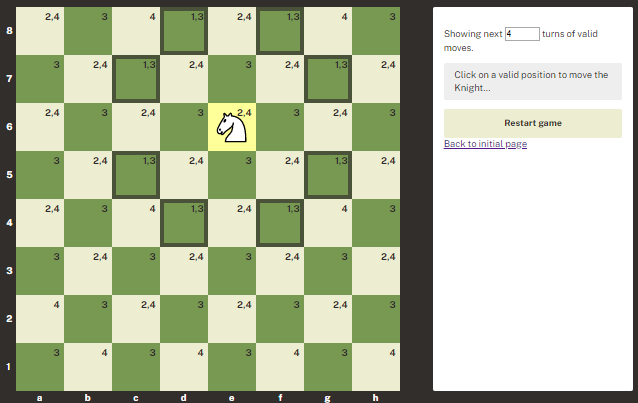
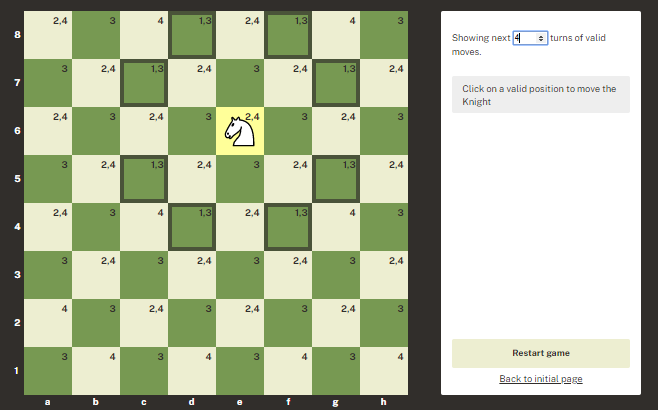
Improve tour pages

diff --git a/web/src/pages/TourPage.tsx b/web/src/pages/TourPage.tsx
@@ -1,7 +1,9 @@
 import React from "react"
 import { Route } from "react-router"
+import { Link } from "react-router-dom"
 import styled from "styled-components"
-import { ButtonLink, ButtonsContainer } from "../components/ui"
+import { ButtonLink } from "../components/ui"
+import step1 from "../images/step1.png"
 import step2 from "../images/step2.png"
 import step3 from "../images/step3.png"
 
@@ -10,6 +12,7 @@ export function TourPage() {
     <TourLayout>
       <Route exact path="/tour/1" component={Step1} />
       <Route exact path="/tour/2" component={Step2} />
+      <Route exact path="/tour/3" component={Step3} />
     </TourLayout>
   )
 }
@@ -30,15 +33,16 @@ function Step1() {
         </ul>
       </p>
       <p>
-        <img src={step2} />
+        <img src={step1} alt="A chess board with a Knight positioned on d5. The valid Knight moves are highlighted" />
       </p>
 
-      <ButtonsContainer>
+      <Footer>
+        <Link to="/">Back to initial page</Link>
         <ButtonLink to="/game">Start game</ButtonLink>
         <ButtonLink to="/tour/2" primary>
           Next
         </ButtonLink>
-      </ButtonsContainer>
+      </Footer>
     </>
   )
 }
@@ -58,29 +62,51 @@ function Step2() {
         4. You can also <b>deselect the current square</b> by clicking/touching on it and select other squares. The
         current selected square is always hightlighted.
       </p>
+
       <p>
-        5. You can change the predicted <b>number of turns ahead</b>, shown in the squares, that takes for the Knight to
+        <img src={step2} alt="A chess board with a Knight positioned on d5. The f3 position is highlighted." />
+      </p>
+
+      <Footer>
+        <Link to="/tour/1">Previous</Link>
+        <ButtonLink to="/game">Start game</ButtonLink>
+        <ButtonLink to="/tour/3" primary>
+          Next
+        </ButtonLink>
+      </Footer>
+    </>
+  )
+}
+
+function Step3() {
+  return (
+    <>
+      <p>
+        5. You can <b>Restart the game</b> by clicking the button in the helper menu.
+      </p>
+      <p>
+        6. You can change the predicted <b>number of turns ahead</b>, shown in the squares, that takes for the Knight to
         reach that position by using the numeric input in the helper menu.
       </p>
       <p>
-        <img src={step3} />
-      </p>
-      <p>
-        6. You can <b>Restart the game</b> by clicking the button in the helper menu.
+        <img
+          src={step3}
+          alt="A chess board with a Knight positioned on e6. Its valid moves are highlighted. Other squares contain the number of turns the Knight takes to reach that position"
+        />
       </p>
 
-      <ButtonsContainer>
-        <ButtonLink to="/">Back to initial page</ButtonLink>
+      <Footer>
+        <Link to="/tour/2">Previous</Link>
         <ButtonLink to="/game" primary>
           Start game
         </ButtonLink>
-      </ButtonsContainer>
+      </Footer>
     </>
   )
 }
 
 const TourLayout = styled.div`
-  max-width: 680px;
+  max-width: 720px;
   margin: 0 auto;
   font-size: 15px;
 
@@ -88,5 +114,23 @@ const TourLayout = styled.div`
     max-width: 100%;
     display: block;
     margin: 0 auto;
+  }
+`
+
+const Footer = styled.div`
+  display: flex;
+  justify-content: space-between;
+  align-items: center;
+  border-top: 1px solid #666;
+  padding: 0.5rem 0;
+
+  @media only screen and (max-width: 600px) {
+    flex-direction: column;
+    align-items: stretch;
+
+    & > * {
+      margin: 0.5rem 0;
+      text-align: center;
+    }
   }
 `

diff --git a/web/src/pages/GamePage.tsx b/web/src/pages/GamePage.tsx
@@ -1,10 +1,8 @@
-import React, { useCallback, useEffect, useReducer, useMemo, useState } from "react"
-import reducer, { getBoardSquares, setValidMoves, initialState, selectSquare, restart } from "../ducks/knight-moves"
-import { Board, Position } from "../components/chess"
+import React, { useCallback, useEffect, useMemo, useReducer, useState } from "react"
 import styled from "styled-components"
-import { Button } from "../components/ui"
-import { WithTheme } from "../theme"
-import { Link } from "react-router-dom"
+import { Board, Position } from "../components/chess"
+import { GameControls } from "../components/GameControls"
+import reducer, { getBoardSquares, initialState, restart, selectSquare, setValidMoves } from "../ducks/knight-moves"
 
 export function GamePage() {
   const [state, dispatch] = useReducer(reducer, initialState)
@@ -23,36 +21,12 @@ export function GamePage() {
   const squares = useMemo(() => getBoardSquares(state), [state])
   const handleSquareClick = useCallback((position: Position) => dispatch(selectSquare(position)), [])
   const handleRestartClick = useCallback(() => dispatch(restart()), [])
-  const handleTurnsChange = useCallback(e => setTurns(e.target.value), [])
+  const handleTurnsChange = useCallback(turns => setTurns(turns), [])
 
   return (
     <Container>
       <Board squares={squares} onSquareClick={handleSquareClick} />
-      <Controls>
-        <p>
-          Showing next <TurnsInput type="number" min={1} max={10} value={turns} onChange={handleTurnsChange} /> turns of
-          valid moves.
-        </p>
-
-        {state.knightPosition === null && (
-          <Message>Click or touch a square to select Knight's initial position</Message>
-        )}
-
-        {state.knightPosition !== null && state.selected === state.knightPosition && (
-          <Message>Click on a valid position to move the Knight</Message>
-        )}
-
-        {state.knightPosition !== null && state.selected === null && <Message>Select a square</Message>}
-
-        {state.selected !== null && state.selected !== state.knightPosition && (
-          <Message>Select the Knight's position to see its valid moves</Message>
-        )}
-
-        <Button primary block onClick={handleRestartClick}>
-          Restart game
-        </Button>
-        <Link to="/">Back to initial page</Link>
-      </Controls>
+      <GameControls state={state} turns={turns} onTurnsChange={handleTurnsChange} onRestartClick={handleRestartClick} />
     </Container>
   )
 }
@@ -62,22 +36,4 @@ const Container = styled.div`
   grid-template-columns: 1fr 300px;
   grid-column-gap: 1rem;
   justify-items: center;
-`
-
-const Controls = styled.div`
-  color: ${(props: WithTheme) => props.theme.bg};
-  font-size: 0.875rem;
-  background: #fff;
-  border-radius: 3px;
-  padding: 1rem 1rem;
-`
-
-const TurnsInput = styled.input`
-  width: 3rem;
-`
-
-const Message = styled.p`
-  background: #eee;
-  border-radius: 3px;
-  padding: 0.5rem 1rem;
 `

diff --git a/web/src/components/GameControls.tsx b/web/src/components/GameControls.tsx
@@ -1,0 +1,87 @@
+import React, { useCallback } from "react"
+import { Link } from "react-router-dom"
+import styled from "styled-components"
+import { Button } from "../components/ui"
+import { KnightMovesState } from "../ducks/knight-moves"
+import { WithTheme } from "../theme"
+
+export interface GameControlsProps {
+  state: KnightMovesState
+  turns: number
+  onTurnsChange(turns: number): void
+  onRestartClick(): void
+}
+
+export function GameControls(props: GameControlsProps) {
+  const { state, turns, onTurnsChange, onRestartClick } = props
+
+  const handleRestartClick = useCallback(() => onRestartClick(), [onRestartClick])
+  const handleTurnsChange = useCallback(e => onTurnsChange(e.target.value), [onTurnsChange])
+
+  return (
+    <Controls>
+      <p>
+        Showing next <TurnsInput type="number" min={1} max={10} value={turns} onChange={handleTurnsChange} /> turns of
+        valid moves.
+      </p>
+
+      {state.knightPosition === null && <Message>Click or touch a square to select Knight's initial position</Message>}
+
+      {state.knightPosition !== null && state.selected === state.knightPosition && (
+        <Message>Click on a valid position to move the Knight</Message>
+      )}
+
+      {state.knightPosition !== null && state.selected === null && <Message>Select a square</Message>}
+
+      {state.selected !== null && state.selected !== state.knightPosition && (
+        <Message>Select the Knight's position to see its valid moves</Message>
+      )}
+
+      <MovementList></MovementList>
+
+      <Footer>
+        <Button primary block onClick={handleRestartClick}>
+          Restart game
+        </Button>
+        <Link to="/">Back to initial page</Link>
+      </Footer>
+    </Controls>
+  )
+}
+
+const Controls = styled.div`
+  color: ${(props: WithTheme) => props.theme.bg};
+  font-size: 0.875rem;
+  background: #fff;
+  border-radius: 3px;
+  padding: 1rem 1rem;
+  display: flex;
+  flex-direction: column;
+
+  a {
+    color: ${(props: WithTheme) => props.theme.bg};
+  }
+`
+
+const MovementList = styled.div`
+  flex: 1;
+`
+
+const TurnsInput = styled.input`
+  width: 3rem;
+`
+
+const Message = styled.p`
+  background: #eee;
+  border-radius: 3px;
+  padding: 0.5rem 1rem;
+`
+
+const Footer = styled.div`
+  text-align: center;
+  align-self: flex-end;
+
+  & > * {
+    margin: 0.5rem 0;
+  }
+`

diff --git a/web/src/components/ui/ButtonsContainer.tsx b/web/src/components/ui/ButtonsContainer.tsx
@@ -5,6 +5,7 @@ export const ButtonsContainer = styled.div`
   grid-gap: 1rem;
   grid-template-columns: repeat(2, 250px);
   justify-content: center;
+  align-items: center;
 
   @media only screen and (max-width: 600px) {
     grid-template-columns: 1fr;

diff --git a/web/src/App.tsx b/web/src/App.tsx
@@ -40,5 +40,13 @@ const GlobalStyle = createGlobalStyle(
     p {
       line-height: 1.5;
     }
+
+    a {
+      color: #fff;
+
+      &:hover {
+        text-decoration: none;
+      }
+    }
   `
 )
